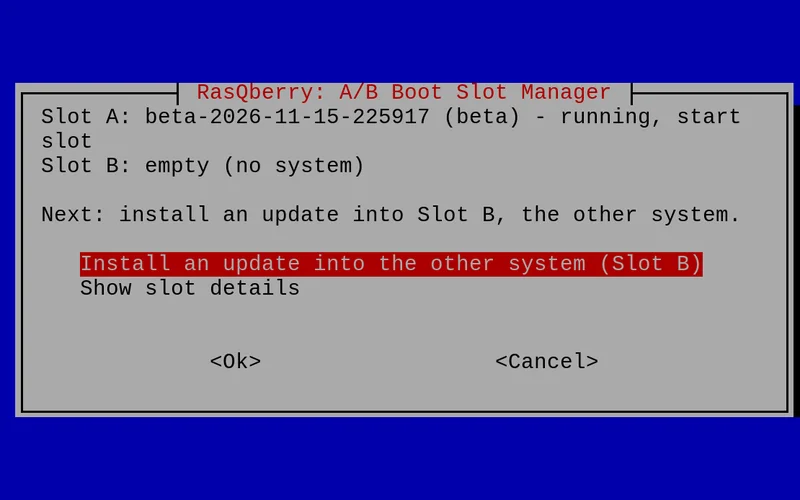
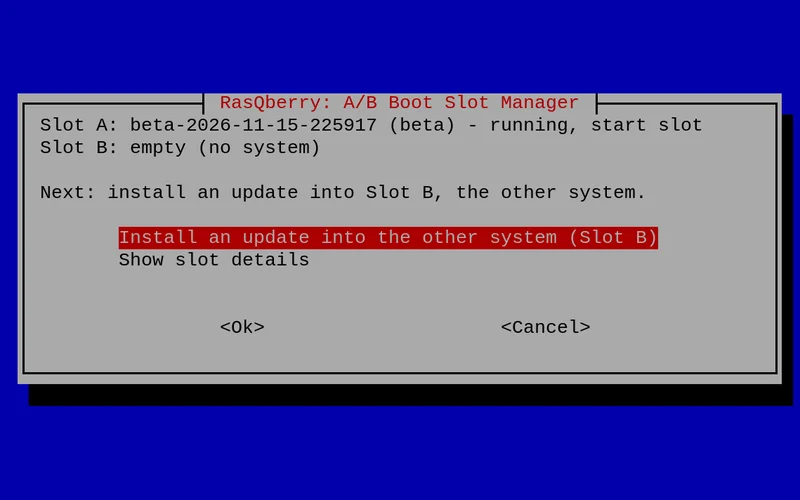
Updates tile: centered crop, no wrapped line, alt text names the Slot Manager
Claude-Session: https://claude.ai/code/session_01NaRLeVCx3uhVyGTNxFksWw

Changed region(s): [[0.0, 0.15, 1.0, 0.84], [0.2812, 0.63, 0.3438, 0.66]]

diff --git a/content/index.md b/content/index.md
@@ -97,7 +97,7 @@ LED panel. Made for classrooms, meetups, booths and anyone curious.
     <span>Its own Wi-Fi hotspot with a QR code to join, touch mode, a demo loop and Bluetooth speakers.</span>
   </a>
   <a className="feature" href="/02-software/03-ab-boot/">
-    <img src="/installation-images/slot-manager-tile.webp" width="800" height="500" loading="lazy" alt="The A/B Boot Slot Manager: Slot A runs the beta, Slot B is ready for the next update" />
+    <img src="/installation-images/slot-manager-tile.webp" width="800" height="500" loading="lazy" alt="The Slot Manager: Slot A is running, and the next update goes into Slot B, the other system" />
     <strong>Updates without a new card</strong>
     <span>On cards of 64 GB or more, new releases install over the air and the previous system stays as a fallback.</span>
   </a>
